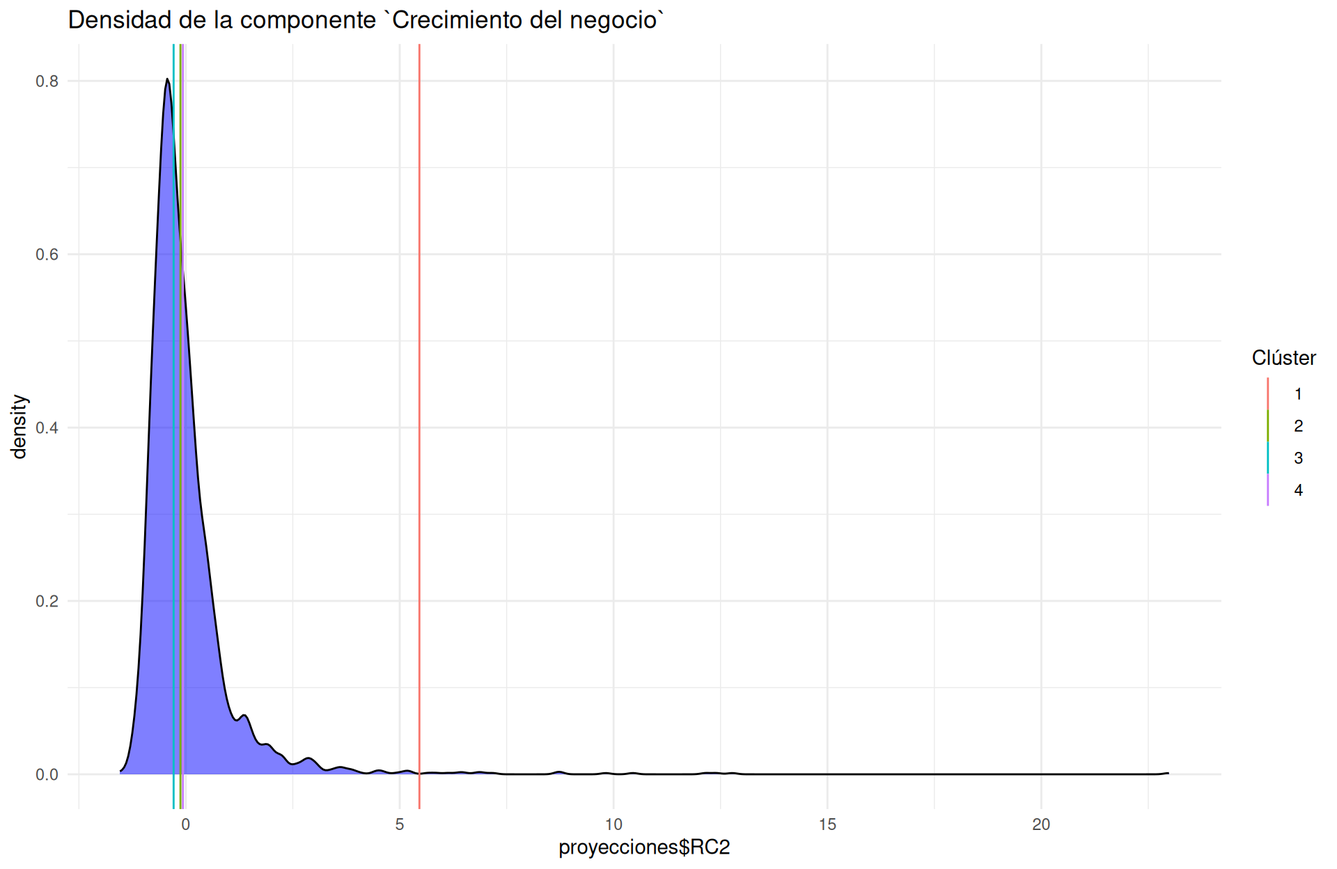
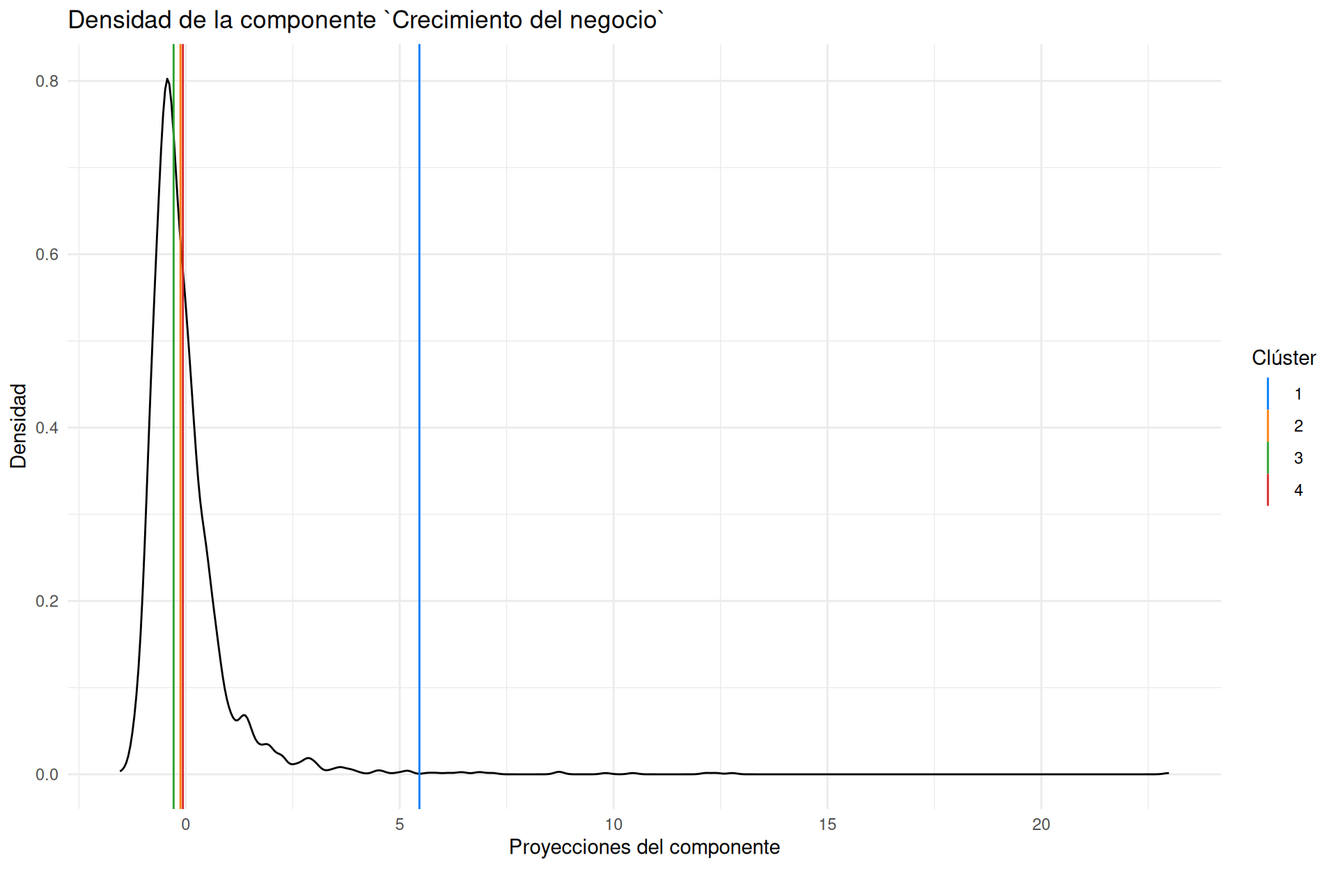
Cambios finales

Changed region(s): [[0.0938, 0.0625, 0.2812, 0.9375], [0.375, 0.9688, 0.5938, 1.0], [0.0, 0.4375, 0.0312, 0.5312]]

diff --git a/resultados-de-elecciones-en-baja-california.html b/resultados-de-elecciones-en-baja-california.html
@@ -164,51 +164,48 @@ code span.wa { color: #60a0b0; font-weight: bold; font-style: italic; } /* Warni
 <span id="cb1-2"><a href="resultados-de-elecciones-en-baja-california.html#cb1-2" tabindex="-1"></a></span>
 <span id="cb1-3"><a href="resultados-de-elecciones-en-baja-california.html#cb1-3" tabindex="-1"></a>tecate <span class="ot">&lt;-</span> municipios <span class="sc">%&gt;%</span> <span class="fu">filter</span>(MUNICIPIO <span class="sc">==</span> <span class="st">&quot;TECATE&quot;</span>) <span class="co">#Filtramos los datos para Tecate</span></span>
 <span id="cb1-4"><a href="resultados-de-elecciones-en-baja-california.html#cb1-4" tabindex="-1"></a>tijuana <span class="ot">&lt;-</span> municipios <span class="sc">%&gt;%</span> <span class="fu">filter</span>(MUNICIPIO <span class="sc">==</span> <span class="st">&quot;TIJUANA&quot;</span>) <span class="co">#Filtramos los datos para Tijuana</span></span></code></pre></div>
-<p>Como queremos ver los resultados por partido, podemos agrupar el total de votos que obtuvo cada partido para cada municipio. Para esto, podemos sumar los votos de cada partido en cada municipio y representarlos en una gráfica de barras. Además también filtramos y eliminamos los partidos que no obtuvieron votos. De esta manera los resultados se ven expuestos en la siguiente grafica</p>
+<p>Como queremos ver los resultados por partido, podemos agrupar el total de votos que obtuvo cada partido para cada municipio. Para esto, podemos sumar los votos de cada partido en cada municipio y representarlos en una gráfica de barras. Además también filtramos y eliminamos los partidos que no obtuvieron votos. De esta manera los resultados se ven expuestos en la siguiente grafica considerando solo los 10 partidos con mas votos:</p>
 <div class="sourceCode" id="cb2"><pre class="sourceCode r"><code class="sourceCode r"><span id="cb2-1"><a href="resultados-de-elecciones-en-baja-california.html#cb2-1" tabindex="-1"></a><span class="co">#Resultados por partido en Tecate</span></span>
 <span id="cb2-2"><a href="resultados-de-elecciones-en-baja-california.html#cb2-2" tabindex="-1"></a>resultados_tecate <span class="ot">&lt;-</span> <span class="fu">data.frame</span>(<span class="at">PARTIDO =</span> <span class="fu">c</span>(<span class="fu">colnames</span>(tecate)[<span class="dv">5</span><span class="sc">:</span><span class="dv">15</span>],<span class="fu">colnames</span>(tecate)[<span class="dv">21</span><span class="sc">:</span><span class="dv">30</span>]), </span>
 <span id="cb2-3"><a href="resultados-de-elecciones-en-baja-california.html#cb2-3" tabindex="-1"></a>                                <span class="at">VOTOS =</span> <span class="fu">c</span>(<span class="fu">sapply</span>(<span class="dv">5</span><span class="sc">:</span><span class="dv">15</span>,<span class="cf">function</span>(x){<span class="fu">sum</span>(tecate[,x])}),</span>
 <span id="cb2-4"><a href="resultados-de-elecciones-en-baja-california.html#cb2-4" tabindex="-1"></a>                                          <span class="fu">sapply</span>(<span class="dv">21</span><span class="sc">:</span><span class="dv">30</span>,<span class="cf">function</span>(x){<span class="fu">sum</span>(tecate[,x])}))) </span>
 <span id="cb2-5"><a href="resultados-de-elecciones-en-baja-california.html#cb2-5" tabindex="-1"></a></span>
-<span id="cb2-6"><a href="resultados-de-elecciones-en-baja-california.html#cb2-6" tabindex="-1"></a>resultados_tecate <span class="ot">&lt;-</span> resultados_tecate <span class="sc">%&gt;%</span> <span class="fu">filter</span>(VOTOS <span class="sc">&gt;</span> <span class="dv">0</span>)</span>
+<span id="cb2-6"><a href="resultados-de-elecciones-en-baja-california.html#cb2-6" tabindex="-1"></a>resultados_tecate <span class="ot">&lt;-</span> resultados_tecate <span class="sc">%&gt;%</span> <span class="fu">arrange</span>(<span class="fu">desc</span>(VOTOS)) <span class="sc">%&gt;%</span> <span class="fu">head</span>(<span class="dv">10</span>)</span>
 <span id="cb2-7"><a href="resultados-de-elecciones-en-baja-california.html#cb2-7" tabindex="-1"></a></span>
 <span id="cb2-8"><a href="resultados-de-elecciones-en-baja-california.html#cb2-8" tabindex="-1"></a><span class="fu">ggplot</span>() <span class="sc">+</span> <span class="fu">geom_bar</span>(<span class="at">data =</span> resultados_tecate, <span class="fu">aes</span>(<span class="at">x =</span> <span class="fu">reorder</span>(PARTIDO, <span class="sc">-</span>VOTOS), </span>
-<span id="cb2-9"><a href="resultados-de-elecciones-en-baja-california.html#cb2-9" tabindex="-1"></a>                                                  <span class="at">y =</span> VOTOS, <span class="at">fill =</span> PARTIDO), <span class="at">stat =</span> <span class="st">&quot;identity&quot;</span>) <span class="sc">+</span> </span>
-<span id="cb2-10"><a href="resultados-de-elecciones-en-baja-california.html#cb2-10" tabindex="-1"></a>           <span class="fu">theme_minimal</span>() <span class="sc">+</span> </span>
-<span id="cb2-11"><a href="resultados-de-elecciones-en-baja-california.html#cb2-11" tabindex="-1"></a>           <span class="fu">theme</span>(<span class="at">axis.text.x =</span> <span class="fu">element_text</span>(<span class="at">angle =</span> <span class="dv">45</span>, <span class="at">hjust =</span> <span class="dv">1</span>)) <span class="sc">+</span> </span>
-<span id="cb2-12"><a href="resultados-de-elecciones-en-baja-california.html#cb2-12" tabindex="-1"></a>           <span class="fu">labs</span>(<span class="at">title =</span> <span class="st">&quot;Resultados por partido para las elecciones municipales de 2021 en Tecate&quot;</span>, </span>
-<span id="cb2-13"><a href="resultados-de-elecciones-en-baja-california.html#cb2-13" tabindex="-1"></a>                <span class="at">x =</span> <span class="st">&quot;Partido&quot;</span>, <span class="at">y =</span> <span class="st">&quot;Votos&quot;</span>) <span class="sc">+</span></span>
-<span id="cb2-14"><a href="resultados-de-elecciones-en-baja-california.html#cb2-14" tabindex="-1"></a>           <span class="fu">scale_y_continuous</span>(<span class="at">labels =</span> scales<span class="sc">::</span><span class="fu">percent_format</span>(<span class="at">scale =</span> <span class="dv">100</span><span class="sc">/</span><span class="fu">sum</span>(resultados_tecate<span class="sc">$</span>VOTOS)))</span></code></pre></div>
+<span id="cb2-9"><a href="resultados-de-elecciones-en-baja-california.html#cb2-9" tabindex="-1"></a>                                                  <span class="at">y =</span> VOTOS), <span class="at">fill =</span> PALETA, <span class="at">stat =</span> <span class="st">&quot;identity&quot;</span>) <span class="sc">+</span> </span>
+<span id="cb2-10"><a href="resultados-de-elecciones-en-baja-california.html#cb2-10" tabindex="-1"></a>           <span class="fu">theme</span>(<span class="at">axis.text.x =</span> <span class="fu">element_text</span>(<span class="at">angle =</span> <span class="dv">45</span>, <span class="at">hjust =</span> <span class="dv">1</span>)) <span class="sc">+</span> </span>
+<span id="cb2-11"><a href="resultados-de-elecciones-en-baja-california.html#cb2-11" tabindex="-1"></a>           <span class="fu">labs</span>(<span class="at">title =</span> <span class="st">&quot;Resultados por partido para las elecciones municipales de 2021 en Tecate&quot;</span>, </span>
+<span id="cb2-12"><a href="resultados-de-elecciones-en-baja-california.html#cb2-12" tabindex="-1"></a>                <span class="at">x =</span> <span class="st">&quot;Partido&quot;</span>, <span class="at">y =</span> <span class="st">&quot;Votos&quot;</span>) <span class="sc">+</span></span>
+<span id="cb2-13"><a href="resultados-de-elecciones-en-baja-california.html#cb2-13" tabindex="-1"></a>           <span class="fu">scale_y_continuous</span>(<span class="at">labels =</span> scales<span class="sc">::</span><span class="fu">percent_format</span>(<span class="at">scale =</span> <span class="dv">100</span><span class="sc">/</span><span class="fu">sum</span>(resultados_tecate<span class="sc">$</span>VOTOS)))</span></code></pre></div>
 <p><img src="DataLab_files/figure-html/unnamed-chunk-7-1.png" width="960" style="display: block; margin: auto;" /></p>
-<p>De manera similar, podemos hacer lo mismo para los resultados en Tijuana</p>
+<p>De manera similar, podemos hacer lo mismo para los resultados en Tijuana considerando solo los 10 partidos con mas votoss</p>
 <div class="sourceCode" id="cb3"><pre class="sourceCode r"><code class="sourceCode r"><span id="cb3-1"><a href="resultados-de-elecciones-en-baja-california.html#cb3-1" tabindex="-1"></a>resultados_tijuana <span class="ot">&lt;-</span> <span class="fu">data.frame</span>(<span class="at">PARTIDO =</span> <span class="fu">c</span>(<span class="fu">colnames</span>(tijuana)[<span class="dv">5</span><span class="sc">:</span><span class="dv">15</span>],<span class="fu">colnames</span>(tijuana)[<span class="dv">21</span><span class="sc">:</span><span class="dv">30</span>]), </span>
 <span id="cb3-2"><a href="resultados-de-elecciones-en-baja-california.html#cb3-2" tabindex="-1"></a>                                 <span class="at">VOTOS =</span> <span class="fu">c</span>(<span class="fu">sapply</span>(<span class="dv">5</span><span class="sc">:</span><span class="dv">15</span>,<span class="cf">function</span>(x){<span class="fu">sum</span>(tijuana[,x])}),</span>
 <span id="cb3-3"><a href="resultados-de-elecciones-en-baja-california.html#cb3-3" tabindex="-1"></a>                                           <span class="fu">sapply</span>(<span class="dv">21</span><span class="sc">:</span><span class="dv">30</span>,<span class="cf">function</span>(x){<span class="fu">sum</span>(tijuana[,x])}))) </span>
 <span id="cb3-4"><a href="resultados-de-elecciones-en-baja-california.html#cb3-4" tabindex="-1"></a></span>
-<span id="cb3-5"><a href="resultados-de-elecciones-en-baja-california.html#cb3-5" tabindex="-1"></a>resultados_tijuana <span class="ot">&lt;-</span> resultados_tijuana <span class="sc">%&gt;%</span> <span class="fu">filter</span>(VOTOS <span class="sc">&gt;</span> <span class="dv">0</span>) </span>
+<span id="cb3-5"><a href="resultados-de-elecciones-en-baja-california.html#cb3-5" tabindex="-1"></a>resultados_tijuana <span class="ot">&lt;-</span> resultados_tijuana <span class="sc">%&gt;%</span> <span class="fu">arrange</span>(<span class="fu">desc</span>(VOTOS)) <span class="sc">%&gt;%</span> <span class="fu">head</span>(<span class="dv">10</span>)</span>
 <span id="cb3-6"><a href="resultados-de-elecciones-en-baja-california.html#cb3-6" tabindex="-1"></a></span>
 <span id="cb3-7"><a href="resultados-de-elecciones-en-baja-california.html#cb3-7" tabindex="-1"></a><span class="fu">ggplot</span>() <span class="sc">+</span> <span class="fu">geom_bar</span>(<span class="at">data =</span> resultados_tijuana, <span class="fu">aes</span>(<span class="at">x =</span> <span class="fu">reorder</span>(PARTIDO, <span class="sc">-</span>VOTOS), </span>
-<span id="cb3-8"><a href="resultados-de-elecciones-en-baja-california.html#cb3-8" tabindex="-1"></a>                                                   <span class="at">y =</span> VOTOS, <span class="at">fill =</span> PARTIDO), <span class="at">stat =</span> <span class="st">&quot;identity&quot;</span>) <span class="sc">+</span> </span>
-<span id="cb3-9"><a href="resultados-de-elecciones-en-baja-california.html#cb3-9" tabindex="-1"></a>           <span class="fu">theme_minimal</span>() <span class="sc">+</span> </span>
-<span id="cb3-10"><a href="resultados-de-elecciones-en-baja-california.html#cb3-10" tabindex="-1"></a>           <span class="fu">theme</span>(<span class="at">axis.text.x =</span> <span class="fu">element_text</span>(<span class="at">angle =</span> <span class="dv">45</span>, <span class="at">hjust =</span> <span class="dv">1</span>)) <span class="sc">+</span> </span>
-<span id="cb3-11"><a href="resultados-de-elecciones-en-baja-california.html#cb3-11" tabindex="-1"></a>           <span class="fu">labs</span>(<span class="at">title =</span> <span class="st">&quot;Resultados por partido para las elecciones municipales de 2021 en Tijuana&quot;</span>, </span>
-<span id="cb3-12"><a href="resultados-de-elecciones-en-baja-california.html#cb3-12" tabindex="-1"></a>                <span class="at">x =</span> <span class="st">&quot;Partido&quot;</span>, <span class="at">y =</span> <span class="st">&quot;Votos&quot;</span>) <span class="sc">+</span></span>
-<span id="cb3-13"><a href="resultados-de-elecciones-en-baja-california.html#cb3-13" tabindex="-1"></a>           <span class="fu">scale_y_continuous</span>(<span class="at">labels =</span> scales<span class="sc">::</span><span class="fu">percent_format</span>(<span class="at">scale =</span> <span class="dv">100</span><span class="sc">/</span><span class="fu">sum</span>(resultados_tijuana<span class="sc">$</span>VOTOS)))</span></code></pre></div>
+<span id="cb3-8"><a href="resultados-de-elecciones-en-baja-california.html#cb3-8" tabindex="-1"></a>                                                   <span class="at">y =</span> VOTOS), <span class="at">fill =</span> PALETA, <span class="at">stat =</span> <span class="st">&quot;identity&quot;</span>) <span class="sc">+</span> </span>
+<span id="cb3-9"><a href="resultados-de-elecciones-en-baja-california.html#cb3-9" tabindex="-1"></a>           <span class="fu">theme</span>(<span class="at">axis.text.x =</span> <span class="fu">element_text</span>(<span class="at">angle =</span> <span class="dv">45</span>, <span class="at">hjust =</span> <span class="dv">1</span>)) <span class="sc">+</span> </span>
+<span id="cb3-10"><a href="resultados-de-elecciones-en-baja-california.html#cb3-10" tabindex="-1"></a>           <span class="fu">labs</span>(<span class="at">title =</span> <span class="st">&quot;Resultados por partido para las elecciones municipales de 2021 en Tijuana&quot;</span>, </span>
+<span id="cb3-11"><a href="resultados-de-elecciones-en-baja-california.html#cb3-11" tabindex="-1"></a>                <span class="at">x =</span> <span class="st">&quot;Partido&quot;</span>, <span class="at">y =</span> <span class="st">&quot;Votos&quot;</span>) <span class="sc">+</span></span>
+<span id="cb3-12"><a href="resultados-de-elecciones-en-baja-california.html#cb3-12" tabindex="-1"></a>           <span class="fu">scale_y_continuous</span>(<span class="at">labels =</span> scales<span class="sc">::</span><span class="fu">percent_format</span>(<span class="at">scale =</span> <span class="dv">100</span><span class="sc">/</span><span class="fu">sum</span>(resultados_tijuana<span class="sc">$</span>VOTOS)))</span></code></pre></div>
 <p><img src="DataLab_files/figure-html/unnamed-chunk-8-1.png" width="960" style="display: block; margin: auto;" /></p>
-<p>Por otro lado para los datos de las elecciones de gubernatura, podemos considerar solo a los partidos que obtuvieron al menos el 1% del total de votos:</p>
+<p>Por otro lado para los datos de las elecciones de gubernatura, podemos considerar solo a los 10 partidos con mas votos en la elección</p>
 <div class="sourceCode" id="cb4"><pre class="sourceCode r"><code class="sourceCode r"><span id="cb4-1"><a href="resultados-de-elecciones-en-baja-california.html#cb4-1" tabindex="-1"></a>gubernatura <span class="ot">&lt;-</span> <span class="fu">read_csv</span>(<span class="st">&quot;Elecciones_BajaCalifornia_Gubernatura.csv&quot;</span>)</span>
 <span id="cb4-2"><a href="resultados-de-elecciones-en-baja-california.html#cb4-2" tabindex="-1"></a></span>
 <span id="cb4-3"><a href="resultados-de-elecciones-en-baja-california.html#cb4-3" tabindex="-1"></a>votos_gubernatura <span class="ot">&lt;-</span> <span class="fu">data.frame</span>(<span class="at">PARTIDO =</span> <span class="fu">colnames</span>(gubernatura)[<span class="dv">5</span><span class="sc">:</span><span class="dv">25</span>], </span>
 <span id="cb4-4"><a href="resultados-de-elecciones-en-baja-california.html#cb4-4" tabindex="-1"></a>                                <span class="at">VOTOS =</span> <span class="fu">sapply</span>(<span class="dv">5</span><span class="sc">:</span><span class="dv">25</span>,<span class="cf">function</span>(x){<span class="fu">sum</span>(gubernatura[,x])}))</span>
 <span id="cb4-5"><a href="resultados-de-elecciones-en-baja-california.html#cb4-5" tabindex="-1"></a></span>
-<span id="cb4-6"><a href="resultados-de-elecciones-en-baja-california.html#cb4-6" tabindex="-1"></a>votos_gubernatura <span class="ot">&lt;-</span> votos_gubernatura <span class="sc">%&gt;%</span> <span class="fu">filter</span>(VOTOS <span class="sc">&gt;=</span> <span class="fu">sum</span>(VOTOS)<span class="sc">*</span><span class="fl">0.01</span>)</span>
+<span id="cb4-6"><a href="resultados-de-elecciones-en-baja-california.html#cb4-6" tabindex="-1"></a>votos_gubernatura <span class="ot">&lt;-</span> votos_gubernatura <span class="sc">%&gt;%</span> <span class="fu">arrange</span>(<span class="fu">desc</span>(VOTOS)) <span class="sc">%&gt;%</span> <span class="fu">head</span>(<span class="dv">10</span>)</span>
 <span id="cb4-7"><a href="resultados-de-elecciones-en-baja-california.html#cb4-7" tabindex="-1"></a></span>
-<span id="cb4-8"><a href="resultados-de-elecciones-en-baja-california.html#cb4-8" tabindex="-1"></a><span class="fu">ggplot</span>() <span class="sc">+</span> <span class="fu">geom_bar</span>(<span class="at">data =</span> votos_gubernatura, <span class="fu">aes</span>(<span class="at">x =</span> <span class="fu">reorder</span>(PARTIDO, <span class="sc">-</span>VOTOS), </span>
-<span id="cb4-9"><a href="resultados-de-elecciones-en-baja-california.html#cb4-9" tabindex="-1"></a>                                                  <span class="at">y =</span> VOTOS, <span class="at">fill =</span> PARTIDO), <span class="at">stat =</span> <span class="st">&quot;identity&quot;</span>) <span class="sc">+</span> </span>
-<span id="cb4-10"><a href="resultados-de-elecciones-en-baja-california.html#cb4-10" tabindex="-1"></a>           <span class="fu">theme_minimal</span>() <span class="sc">+</span> </span>
-<span id="cb4-11"><a href="resultados-de-elecciones-en-baja-california.html#cb4-11" tabindex="-1"></a>           <span class="fu">theme</span>(<span class="at">axis.text.x =</span> <span class="fu">element_text</span>(<span class="at">angle =</span> <span class="dv">45</span>, <span class="at">hjust =</span> <span class="dv">1</span>)) <span class="sc">+</span> </span>
-<span id="cb4-12"><a href="resultados-de-elecciones-en-baja-california.html#cb4-12" tabindex="-1"></a>           <span class="fu">labs</span>(<span class="at">title =</span> <span class="st">&quot;Resultados por partido en la elección de Gubernatura 2021&quot;</span>, <span class="at">x =</span> <span class="st">&quot;Partido&quot;</span>, <span class="at">y =</span> <span class="st">&quot;Votos&quot;</span>) <span class="sc">+</span></span>
-<span id="cb4-13"><a href="resultados-de-elecciones-en-baja-california.html#cb4-13" tabindex="-1"></a>           <span class="fu">scale_y_continuous</span>(<span class="at">labels =</span> scales<span class="sc">::</span><span class="fu">percent_format</span>(<span class="at">scale =</span> <span class="dv">100</span><span class="sc">/</span><span class="fu">sum</span>(votos_gubernatura<span class="sc">$</span>VOTOS)))</span></code></pre></div>
+<span id="cb4-8"><a href="resultados-de-elecciones-en-baja-california.html#cb4-8" tabindex="-1"></a><span class="fu">ggplot</span>(<span class="at">data =</span> votos_gubernatura) <span class="sc">+</span> <span class="fu">geom_bar</span>(<span class="at">mapping =</span> <span class="fu">aes</span>(<span class="at">x =</span> <span class="fu">reorder</span>(PARTIDO, <span class="sc">-</span>VOTOS), </span>
+<span id="cb4-9"><a href="resultados-de-elecciones-en-baja-california.html#cb4-9" tabindex="-1"></a>                                                  <span class="at">y =</span> VOTOS), <span class="at">fill =</span> PALETA, <span class="at">stat =</span> <span class="st">&quot;identity&quot;</span>) <span class="sc">+</span> </span>
+<span id="cb4-10"><a href="resultados-de-elecciones-en-baja-california.html#cb4-10" tabindex="-1"></a>           <span class="fu">theme</span>(<span class="at">axis.text.x =</span> <span class="fu">element_text</span>(<span class="at">angle =</span> <span class="dv">45</span>, <span class="at">hjust =</span> <span class="dv">1</span>)) <span class="sc">+</span> </span>
+<span id="cb4-11"><a href="resultados-de-elecciones-en-baja-california.html#cb4-11" tabindex="-1"></a>           <span class="fu">labs</span>(<span class="at">title =</span> <span class="st">&quot;Resultados por partido en la elección de Gubernatura 2021&quot;</span>, <span class="at">x =</span> <span class="st">&quot;Partido&quot;</span>, <span class="at">y =</span> <span class="st">&quot;Votos&quot;</span>, <span class="at">fill =</span> <span class="cn">NULL</span>) <span class="sc">+</span></span>
+<span id="cb4-12"><a href="resultados-de-elecciones-en-baja-california.html#cb4-12" tabindex="-1"></a>           <span class="fu">scale_y_continuous</span>(<span class="at">labels =</span> scales<span class="sc">::</span><span class="fu">percent_format</span>(<span class="at">scale =</span> <span class="dv">100</span><span class="sc">/</span><span class="fu">sum</span>(votos_gubernatura<span class="sc">$</span>VOTOS)))</span></code></pre></div>
 <p><img src="DataLab_files/figure-html/unnamed-chunk-9-1.png" width="960" style="display: block; margin: auto;" /></p>
 </div>
             </section>

diff --git a/segmentación-de-clientes.html b/segmentación-de-clientes.html
@@ -246,14 +246,14 @@ code span.wa { color: #60a0b0; font-weight: bold; font-style: italic; } /* Warni
 ## 3                  3 -2.41   -0.285  -0.178
 ## 4                  4  0.598  -0.0684 -0.169</code></pre>
 <p>Observemos los clusters en un gráfico sobre las 2 componentes principales (Es importante notar que hace falta la tercera componente)</p>
-<div class="sourceCode" id="cb17"><pre class="sourceCode r"><code class="sourceCode r"><span id="cb17-1"><a href="segmentación-de-clientes.html#cb17-1" tabindex="-1"></a><span class="fu">fviz_cluster</span>(modelo_k, <span class="at">data =</span> proyecciones)</span></code></pre></div>
+<div class="sourceCode" id="cb17"><pre class="sourceCode r"><code class="sourceCode r"><span id="cb17-1"><a href="segmentación-de-clientes.html#cb17-1" tabindex="-1"></a><span class="fu">fviz_cluster</span>(modelo_k, <span class="at">data =</span> proyecciones) <span class="sc">+</span> <span class="fu">scale_color_manual</span>(<span class="at">values =</span> PALETA)</span></code></pre></div>
 <p><img src="DataLab_files/figure-html/unnamed-chunk-23-1.png" width="960" style="display: block; margin: auto;" /></p>
 <p>Por ultimo interpretemos los clusters en función de las medias obtenidas, para esto observemos las gráficas de las densidades de cada componente y las medias obtenidas en cada clúster.</p>
-<div class="sourceCode" id="cb18"><pre class="sourceCode r"><code class="sourceCode r"><span id="cb18-1"><a href="segmentación-de-clientes.html#cb18-1" tabindex="-1"></a><span class="fu">ggplot</span>() <span class="sc">+</span> <span class="fu">geom_density</span>(<span class="at">mapping =</span> <span class="fu">aes</span>(<span class="at">x =</span> proyecciones<span class="sc">$</span>RC1), <span class="at">fill =</span> <span class="st">&quot;blue&quot;</span>, <span class="at">alpha =</span> <span class="fl">0.5</span>) <span class="sc">+</span> <span class="fu">geom_vline</span>(<span class="at">mapping =</span> <span class="fu">aes</span>(<span class="at">xintercept =</span> medias<span class="sc">$</span>RC1, <span class="at">colour =</span> <span class="fu">as.factor</span>(medias<span class="sc">$</span><span class="st">`</span><span class="at">modelo_k$cluster</span><span class="st">`</span>))) <span class="sc">+</span> <span class="fu">labs</span>(<span class="at">title =</span> <span class="st">&quot;Densidad de la componente `Calidad del servicio`&quot;</span>, <span class="at">color =</span> <span class="fu">c</span>(<span class="st">&quot;Clúster&quot;</span>)) <span class="sc">+</span> <span class="fu">theme_minimal</span>()</span></code></pre></div>
+<div class="sourceCode" id="cb18"><pre class="sourceCode r"><code class="sourceCode r"><span id="cb18-1"><a href="segmentación-de-clientes.html#cb18-1" tabindex="-1"></a><span class="fu">ggplot</span>() <span class="sc">+</span> <span class="fu">geom_density</span>(<span class="at">mapping =</span> <span class="fu">aes</span>(<span class="at">x =</span> proyecciones<span class="sc">$</span>RC1)) <span class="sc">+</span> <span class="fu">geom_vline</span>(<span class="at">mapping =</span> <span class="fu">aes</span>(<span class="at">xintercept =</span> medias<span class="sc">$</span>RC1, <span class="at">colour =</span> <span class="fu">as.factor</span>(medias<span class="sc">$</span><span class="st">`</span><span class="at">modelo_k$cluster</span><span class="st">`</span>))) <span class="sc">+</span> <span class="fu">labs</span>(<span class="at">title =</span> <span class="st">&quot;Densidad de la componente `Calidad del servicio`&quot;</span>, <span class="at">color =</span> <span class="fu">c</span>(<span class="st">&quot;Clúster&quot;</span>), <span class="at">x =</span> <span class="st">&quot;Proyecciones del componente&quot;</span> , <span class="at">y =</span> <span class="st">&quot;Densidad&quot;</span>) <span class="sc">+</span> <span class="fu">scale_color_manual</span>(<span class="at">values =</span> PALETA)</span></code></pre></div>
 <p><img src="DataLab_files/figure-html/unnamed-chunk-24-1.png" width="960" style="display: block; margin: auto;" /></p>
-<div class="sourceCode" id="cb19"><pre class="sourceCode r"><code class="sourceCode r"><span id="cb19-1"><a href="segmentación-de-clientes.html#cb19-1" tabindex="-1"></a><span class="fu">ggplot</span>() <span class="sc">+</span> <span class="fu">geom_density</span>(<span class="at">mapping =</span> <span class="fu">aes</span>(<span class="at">x =</span> proyecciones<span class="sc">$</span>RC2), <span class="at">fill =</span> <span class="st">&quot;blue&quot;</span>, <span class="at">alpha =</span> <span class="fl">0.5</span>) <span class="sc">+</span> <span class="fu">geom_vline</span>(<span class="at">mapping =</span> <span class="fu">aes</span>(<span class="at">xintercept =</span> medias<span class="sc">$</span>RC2, <span class="at">colour =</span> <span class="fu">as.factor</span>(medias<span class="sc">$</span><span class="st">`</span><span class="at">modelo_k$cluster</span><span class="st">`</span>))) <span class="sc">+</span> <span class="fu">labs</span>(<span class="at">title =</span> <span class="st">&quot;Densidad de la componente `Crecimiento del negocio`&quot;</span>, <span class="at">color =</span> <span class="fu">c</span>(<span class="st">&quot;Clúster&quot;</span>)) <span class="sc">+</span> <span class="fu">theme_minimal</span>()</span></code></pre></div>
+<div class="sourceCode" id="cb19"><pre class="sourceCode r"><code class="sourceCode r"><span id="cb19-1"><a href="segmentación-de-clientes.html#cb19-1" tabindex="-1"></a><span class="fu">ggplot</span>() <span class="sc">+</span> <span class="fu">geom_density</span>(<span class="at">mapping =</span> <span class="fu">aes</span>(<span class="at">x =</span> proyecciones<span class="sc">$</span>RC2)) <span class="sc">+</span> <span class="fu">geom_vline</span>(<span class="at">mapping =</span> <span class="fu">aes</span>(<span class="at">xintercept =</span> medias<span class="sc">$</span>RC2, <span class="at">colour =</span> <span class="fu">as.factor</span>(medias<span class="sc">$</span><span class="st">`</span><span class="at">modelo_k$cluster</span><span class="st">`</span>))) <span class="sc">+</span> <span class="fu">labs</span>(<span class="at">title =</span> <span class="st">&quot;Densidad de la componente `Crecimiento del negocio`&quot;</span>, <span class="at">color =</span> <span class="fu">c</span>(<span class="st">&quot;Clúster&quot;</span>), <span class="at">x =</span> <span class="st">&quot;Proyecciones del componente&quot;</span> , <span class="at">y =</span> <span class="st">&quot;Densidad&quot;</span>) <span class="sc">+</span> <span class="fu">scale_color_manual</span>(<span class="at">values =</span> PALETA)</span></code></pre></div>
 <p><img src="DataLab_files/figure-html/unnamed-chunk-24-2.png" width="960" style="display: block; margin: auto;" /></p>
-<div class="sourceCode" id="cb20"><pre class="sourceCode r"><code class="sourceCode r"><span id="cb20-1"><a href="segmentación-de-clientes.html#cb20-1" tabindex="-1"></a><span class="fu">ggplot</span>() <span class="sc">+</span> <span class="fu">geom_density</span>(<span class="at">mapping =</span> <span class="fu">aes</span>(<span class="at">x =</span> proyecciones<span class="sc">$</span>RC3), <span class="at">fill =</span> <span class="st">&quot;blue&quot;</span>, <span class="at">alpha =</span> <span class="fl">0.5</span>) <span class="sc">+</span> <span class="fu">geom_vline</span>(<span class="at">mapping =</span> <span class="fu">aes</span>(<span class="at">xintercept =</span> medias<span class="sc">$</span>RC3, <span class="at">colour =</span> <span class="fu">as.factor</span>(medias<span class="sc">$</span><span class="st">`</span><span class="at">modelo_k$cluster</span><span class="st">`</span>))) <span class="sc">+</span> <span class="fu">labs</span>(<span class="at">title =</span> <span class="st">&quot;Densidad de la componente `Demografía`&quot;</span>, <span class="at">color =</span> <span class="fu">c</span>(<span class="st">&quot;Clúster&quot;</span>)) <span class="sc">+</span> <span class="fu">theme_minimal</span>()</span></code></pre></div>
+<div class="sourceCode" id="cb20"><pre class="sourceCode r"><code class="sourceCode r"><span id="cb20-1"><a href="segmentación-de-clientes.html#cb20-1" tabindex="-1"></a><span class="fu">ggplot</span>() <span class="sc">+</span> <span class="fu">geom_density</span>(<span class="at">mapping =</span> <span class="fu">aes</span>(<span class="at">x =</span> proyecciones<span class="sc">$</span>RC3)) <span class="sc">+</span> <span class="fu">geom_vline</span>(<span class="at">mapping =</span> <span class="fu">aes</span>(<span class="at">xintercept =</span> medias<span class="sc">$</span>RC3, <span class="at">colour =</span> <span class="fu">as.factor</span>(medias<span class="sc">$</span><span class="st">`</span><span class="at">modelo_k$cluster</span><span class="st">`</span>))) <span class="sc">+</span> <span class="fu">labs</span>(<span class="at">title =</span> <span class="st">&quot;Densidad de la componente `Demografía`&quot;</span>, <span class="at">color =</span> <span class="fu">c</span>(<span class="st">&quot;Clúster&quot;</span>), <span class="at">x =</span> <span class="st">&quot;Proyecciones del componente&quot;</span> , <span class="at">y =</span> <span class="st">&quot;Densidad&quot;</span>) <span class="sc">+</span> <span class="fu">scale_color_manual</span>(<span class="at">values =</span> PALETA)</span></code></pre></div>
 <p><img src="DataLab_files/figure-html/unnamed-chunk-24-3.png" width="960" style="display: block; margin: auto;" />
 Así con esto tenemos que:</p>
 <p>El clúster 1 tiene una baja percepción en la calidad del servicio, cuenta con una alta tasa en el crecimiento del negocio y se encuentra en zonas con muy baja densidad poblacional. Lo ideal para este grupo de negocios sería buscar estrategias para mejorar la percepción en la calidad de sus servicios, además de buscar estrategias para atraer a más clientes a sus negocios aprovechando la baja densidad poblacional.</p>

diff --git a/homicidos-en-guerrero.html b/homicidos-en-guerrero.html
@@ -221,7 +221,7 @@ code span.wa { color: #60a0b0; font-weight: bold; font-style: italic; } /* Warni
 ##  Sieve-bootstrap Shapiro Test
 ## 
 ## data:  Y
-## bootstrap-Shapiro = 0.98151, p-value = 0.733
+## bootstrap-Shapiro = 0.98188, p-value = 0.684
 ## alternative hypothesis: Y does not follow a Gaussian Process</code></pre>
 <p>Utilizamos la herramienta anterior que se basa en metodos de bootstrap para determinar que los residuos se distribuyen como una normal.</p>
 <p>Revisemos un modelo mas, un suavizamiento Holt-Winters</p>
@@ -247,7 +247,7 @@ code span.wa { color: #60a0b0; font-weight: bold; font-style: italic; } /* Warni
 ##  Sieve-bootstrap Shapiro Test
 ## 
 ## data:  Y
-## bootstrap-Shapiro = 0.9574, p-value = 0.994
+## bootstrap-Shapiro = 0.95979, p-value = 0.988
 ## alternative hypothesis: Y does not follow a Gaussian Process</code></pre>
 <p>Tenemos que se cumple la varianza constante y normalidad en nuestros residuos, el modelo es adecuado estadisticamente hablado.</p>
 <p>Así el modelo que consideramos usar en un modelo Holt-Winter con coeficientes:</p>
@@ -261,7 +261,7 @@ code span.wa { color: #60a0b0; font-weight: bold; font-style: italic; } /* Warni
 <span id="cb45-2"><a href="homicidos-en-guerrero.html#cb45-2" tabindex="-1"></a></span>
 <span id="cb45-3"><a href="homicidos-en-guerrero.html#cb45-3" tabindex="-1"></a>mod2_HW <span class="ot">&lt;-</span> <span class="fu">HoltWinters</span>(ts_12, <span class="at">alpha =</span> mod_HW<span class="sc">$</span>alpha, <span class="at">beta =</span> mod_HW<span class="sc">$</span>beta, <span class="at">gamma =</span> mod_HW<span class="sc">$</span>gamma)</span>
 <span id="cb45-4"><a href="homicidos-en-guerrero.html#cb45-4" tabindex="-1"></a></span>
-<span id="cb45-5"><a href="homicidos-en-guerrero.html#cb45-5" tabindex="-1"></a>prediccion <span class="ot">&lt;-</span> forecast<span class="sc">::</span><span class="fu">forecast</span>(mod_HW, <span class="at">h =</span> <span class="dv">12</span>) <span class="co"># Predecimos el proximo año</span></span>
+<span id="cb45-5"><a href="homicidos-en-guerrero.html#cb45-5" tabindex="-1"></a>prediccion <span class="ot">&lt;-</span> forecast<span class="sc">::</span><span class="fu">forecast</span>(mod2_HW, <span class="at">h =</span> <span class="dv">12</span>) <span class="co"># Predecimos el proximo año</span></span>
 <span id="cb45-6"><a href="homicidos-en-guerrero.html#cb45-6" tabindex="-1"></a></span>
 <span id="cb45-7"><a href="homicidos-en-guerrero.html#cb45-7" tabindex="-1"></a><span class="fu">plot</span>(prediccion)</span></code></pre></div>
 <p><img src="DataLab_files/figure-html/unnamed-chunk-52-1.png" width="960" style="display: block; margin: auto;" /></p>

diff --git a/index.html b/index.html
@@ -4,7 +4,7 @@
 
   <meta charset="utf-8" />
   <meta http-equiv="X-UA-Compatible" content="IE=edge" />
-  <title>index | DataLab.knit</title>
+  <title>Ciencia de datos - Andres Limon Cruz | DataLab.knit</title>
   <meta name="description" content="" />
   <meta name="generator" content="bookdown 0.40 and GitBook 2.6.7" />
 
@@ -135,7 +135,7 @@ code span.wa { color: #60a0b0; font-weight: bold; font-style: italic; } /* Warni
       <nav role="navigation">
 
 <ul class="summary">
-<li class="chapter" data-level="" data-path="index.html"><a href="index.html"><i class="fa fa-check"></i>index</a></li>
+<li class="chapter" data-level="" data-path="index.html"><a href="index.html"><i class="fa fa-check"></i>Bienvenida</a></li>
 <li class="chapter" data-level="" data-path="resultados-de-elecciones-en-baja-california.html"><a href="resultados-de-elecciones-en-baja-california.html"><i class="fa fa-check"></i>Resultados de elecciones en Baja California</a></li>
 <li class="chapter" data-level="" data-path="segmentación-de-clientes.html"><a href="segmentación-de-clientes.html"><i class="fa fa-check"></i>Segmentación de clientes</a></li>
 <li class="chapter" data-level="" data-path="homicidos-en-guerrero.html"><a href="homicidos-en-guerrero.html"><i class="fa fa-check"></i>Homicidos en Guerrero</a></li>
@@ -159,10 +159,9 @@ code span.wa { color: #60a0b0; font-weight: bold; font-style: italic; } /* Warni
 <!--bookdown:title:end-->
 <!--bookdown:title:start-->
 <div id="index" class="section level1 hasAnchor">
-<h1>index<a href="index.html#index" class="anchor-section" aria-label="Anchor link to header"></a></h1>
 <h2 style="font-size: 3em; text-align: center;">
 Ciencia de Datos<br>Ejercicios prácticos
-</h1>
+</h2>
 <h2 style="font-size: 2em; text-align: center;">
 Autor: Andrés Limón Cruz
 </h2>
